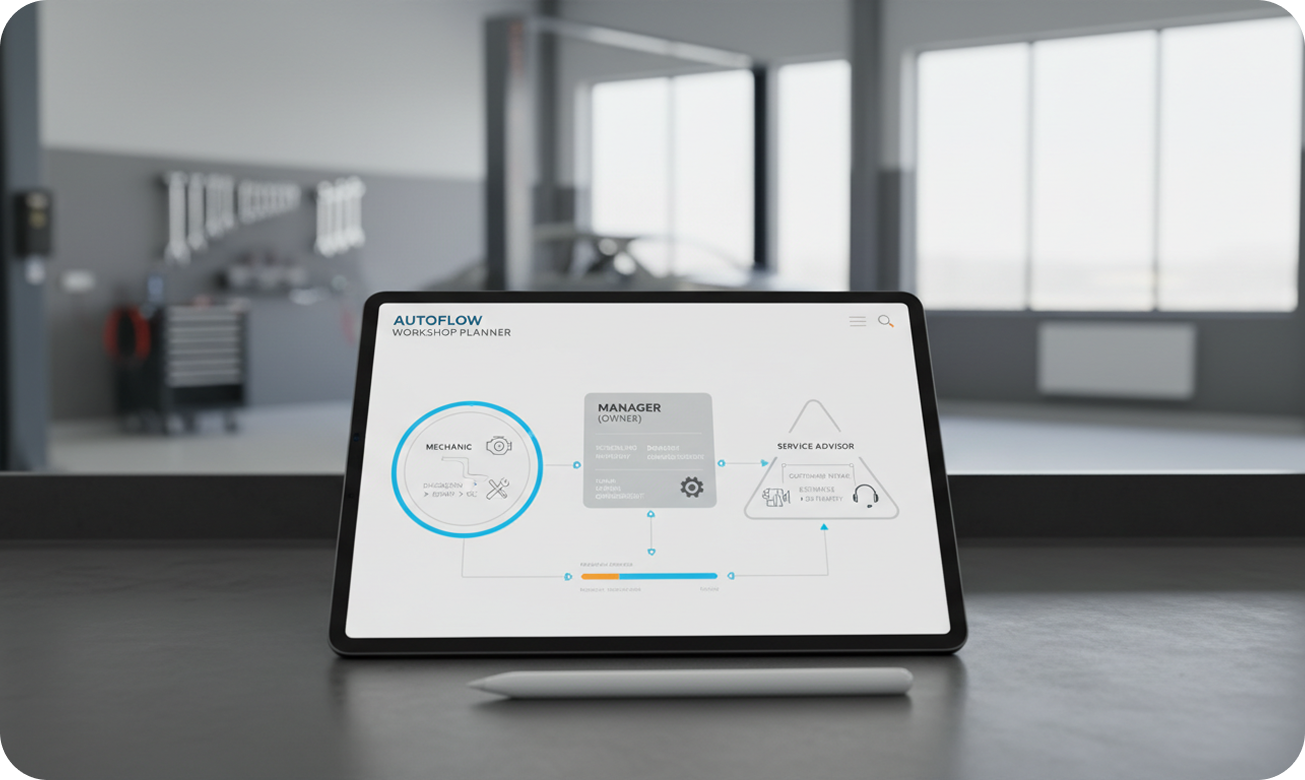
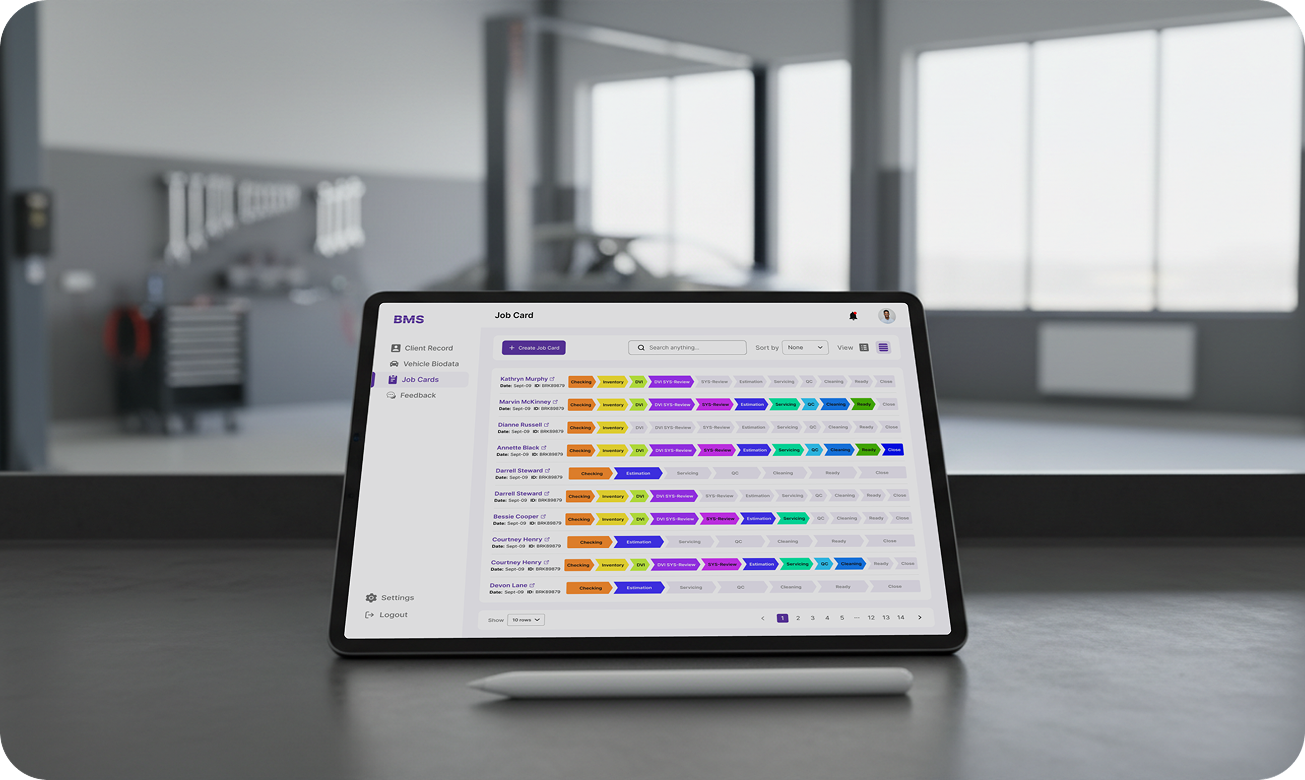
Fix case study font

diff --git a/src/app/case-study/bms/page.tsx b/src/app/case-study/bms/page.tsx
@@ -50,7 +50,7 @@ export default function BMSCaseStudy() {
             <div className="flex flex-col items-start text-left max-w-4xl">
               <motion.h1
                 variants={itemVariants}
-                className="text-3xl sm:text-4xl md:text-5xl font-extrabold text-secondary-1 tracking-tight leading-[1.15] mb-5 font-heading"
+                className="text-3xl sm:text-4xl md:text-5xl font-extrabold text-secondary-1 tracking-tight leading-[1.15] mb-5 font-sans"
               >
                 Streamlining Auto Workshop Operations
               </motion.h1>
@@ -247,7 +247,7 @@ export default function BMSCaseStudy() {
               </div>
               <div className="w-full rounded-[20px] overflow-hidden shadow-md bg-off-white flex items-center justify-center">
                 <img
-                  src="/images/case-studies-second/solution1.png"
+                  src="/images/case-studies-second/solution-img.png"
                   alt="Diagnosis and Repair Queue Interface"
                   className="w-full h-full object-cover"
                 />
@@ -343,11 +343,11 @@ export default function BMSCaseStudy() {
               <div className="flex flex-col gap-4 md:gap-6">
                 {/* Top Left - Tall */}
                 <div className="w-full aspect-[400/560] rounded-[20px] overflow-hidden shadow-sm bg-off-white">
-                  <img src="/images/case-studies-second/girid1-img.png" alt="Mobile app dashboard" className="w-full h-full object-cover" />
+                  <img src="/images/case-studies-second/grid-img1.png" alt="Mobile app dashboard" className="w-full h-full object-cover" />
                 </div>
                 {/* Bottom Left - Short */}
                 <div className="w-full aspect-[400/268] rounded-[20px] overflow-hidden shadow-sm bg-off-white">
-                  <img src="/images/case-studies-second/grid4-img.png" alt="Workshop tablet interface" className="w-full h-full object-cover" />
+                  <img src="/images/case-studies-second/grid-img4.png" alt="Workshop tablet interface" className="w-full h-full object-cover" />
                 </div>
               </div>
 
@@ -356,15 +356,15 @@ export default function BMSCaseStudy() {
                 {/* Top Right - 2 Short Images */}
                 <div className="grid grid-cols-2 gap-4 md:gap-6">
                   <div className="w-full aspect-[400/268] rounded-[20px] overflow-hidden shadow-sm bg-off-white">
-                    <img src="/images/case-studies-second/grid2-img.png" alt="Stock level metric card" className="w-full h-full object-cover" />
+                    <img src="/images/case-studies-second/grid-img2.png" alt="Stock level metric card" className="w-full h-full object-cover" />
                   </div>
                   <div className="w-full aspect-[400/268] rounded-[20px] overflow-hidden shadow-sm bg-off-white">
-                    <img src="/images/case-studies-second/grid3-img.png" alt="Dark mode diagnostics dashboard" className="w-full h-full object-cover" />
+                    <img src="/images/case-studies-second/grid-img3.png" alt="Dark mode diagnostics dashboard" className="w-full h-full object-cover" />
                   </div>
                 </div>
                 {/* Bottom Right - 1 Large Image */}
                 <div className="w-full aspect-[824/560] rounded-[20px] overflow-hidden shadow-sm bg-off-white">
-                  <img src="/images/case-studies-second/grid5-large-img.png" alt="Workshop overview analytics screen" className="w-full h-full object-cover" />
+                  <img src="/images/case-studies-second/grid-large-img.png" alt="Workshop overview analytics screen" className="w-full h-full object-cover" />
                 </div>
               </div>
             </div>

diff --git a/src/components/CaseStudies.tsx b/src/components/CaseStudies.tsx
@@ -40,7 +40,7 @@ export default function CaseStudies() {
       description: "Designed a social reading platform that encourages engagement through discussions, reading groups, and community-driven interactions.",
       image: "/images/case-studies/Case 3.png",
       readLink: "#",
-      liveLink: "https://staging.pagetwothreefour.com/",
+      liveLink: "#", // staging.pagetwothreefour.com
     },
   ];
 
@@ -88,7 +88,7 @@ export default function CaseStudies() {
                 </span>
 
                 {/* Title */}
-                <h3 className="text-h4 text-dark-neutral mb-3 group-hover:text-forest-green transition-colors">
+                <h3 className="text-h4 font-sans text-dark-neutral mb-3 group-hover:text-forest-green transition-colors">
                   {project.title}
                 </h3>
 
@@ -110,7 +110,7 @@ export default function CaseStudies() {
                 ) : (
                   <span
                     aria-disabled="true"
-                    className="text-dark-neutral font-semibold text-sm opacity-40 filter blur-[1.5px] select-none pointer-events-none"
+                    className="text-dark-neutral font-semibold text-sm opacity-40 select-none pointer-events-none"
                     title="Case study unavailable"
                   >
                     Read Case Study
@@ -131,7 +131,7 @@ export default function CaseStudies() {
                   ) : (
                     <span
                       aria-disabled="true"
-                      className="text-dark-neutral font-semibold text-sm flex items-center gap-1.5 opacity-40 filter blur-[1.5px] select-none pointer-events-none"
+                      className="text-dark-neutral font-semibold text-sm flex items-center gap-1.5 opacity-40 select-none pointer-events-none"
                       title="Live site unavailable"
                     >
                       View Live Site

diff --git a/src/app/case-study/iwish/page.tsx b/src/app/case-study/iwish/page.tsx
@@ -50,7 +50,7 @@ export default function IWishCaseStudy() {
             <div className="flex flex-col items-start text-left max-w-4xl">
               <motion.h1 
                 variants={itemVariants}
-                className="text-3xl sm:text-4xl md:text-5xl font-extrabold text-secondary-1 tracking-tight leading-[1.15] mb-5 font-heading"
+                className="text-3xl sm:text-4xl md:text-5xl font-extrabold text-secondary-1 tracking-tight leading-[1.15] mb-5 font-sans"
               >
                 Designing a Community-Powered Social Gifting Platform
               </motion.h1>
